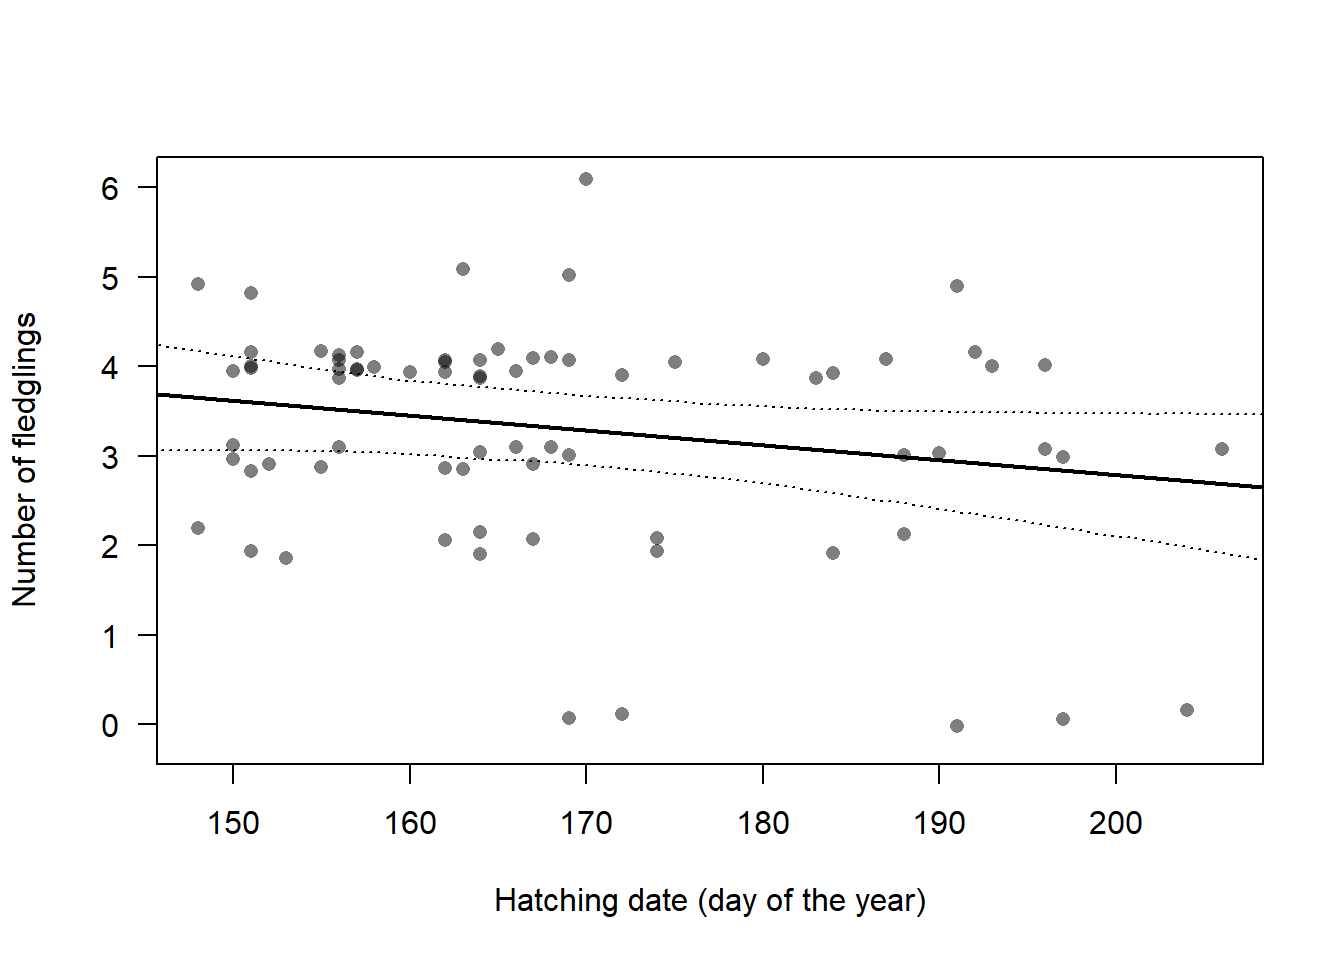
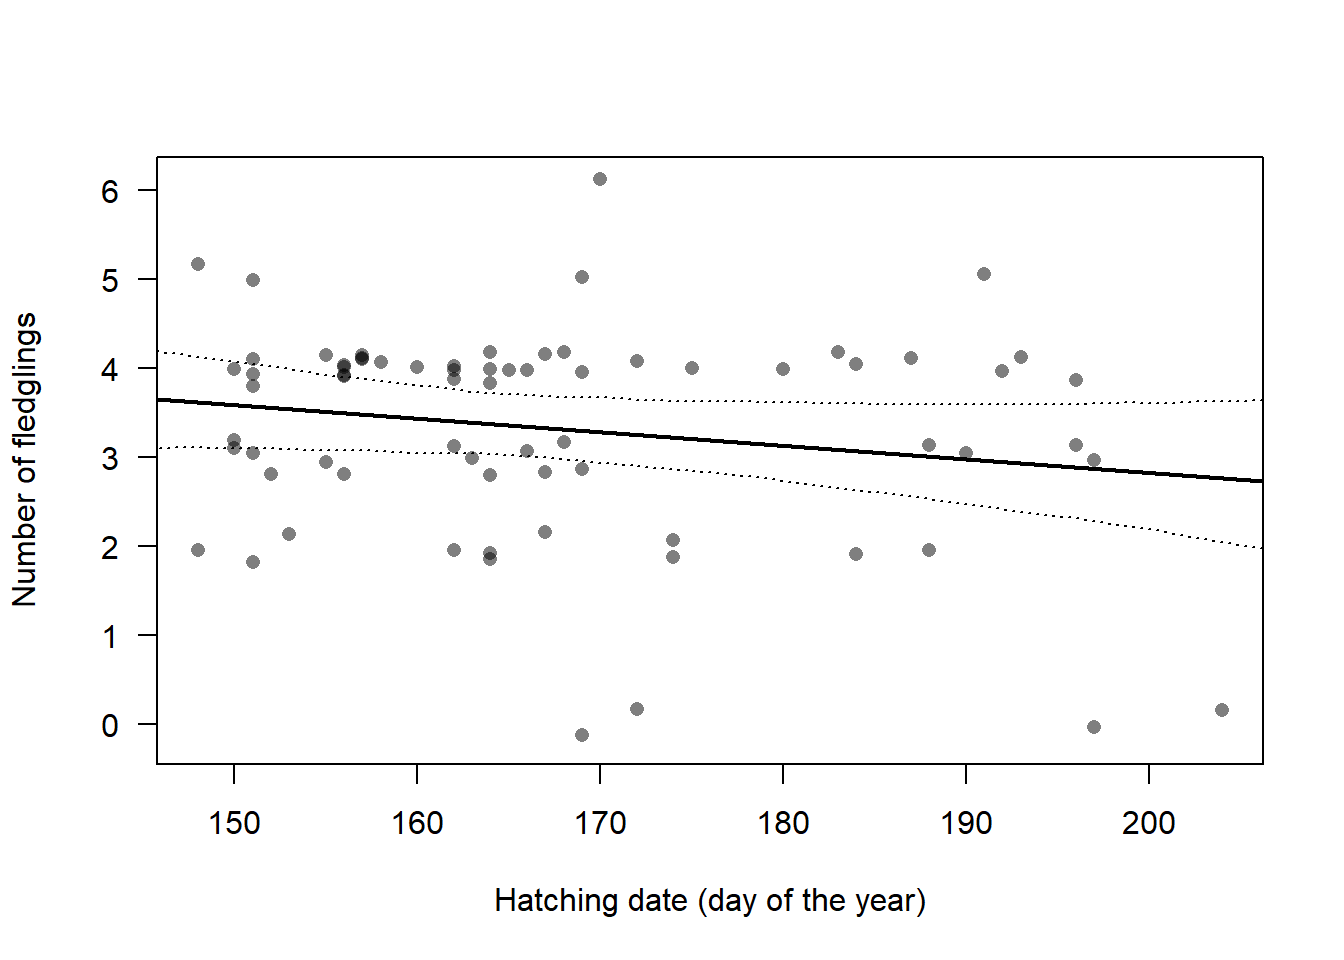
updated broods data frame

diff --git a/docs/data.html b/docs/data.html
@@ -23,7 +23,7 @@
 <meta name="author" content="Fränzi Korner-Nievergelt, Sebastian Dirren, Sabine Hille, Carole Niffenegger, Claire Pernollet" />
 
 
-<meta name="date" content="2023-12-27" />
+<meta name="date" content="2024-01-08" />
 
   <meta name="viewport" content="width=device-width, initial-scale=1" />
   <meta name="apple-mobile-web-app-capable" content="yes" />
@@ -233,7 +233,7 @@ Figure 3.1: Proportion of second broods in different studies (point) with 95% un
 </p>
 </div>
 <p>The resulting average proportion of second broods exhibits a high uncertainty. Its 95% uncertainty interval ranges from 0.2 to 0.97, and the mean is 0.75 (Figure <a href="data.html#fig:metanrbrood">3.1</a>).</p>
-<p>For the population model, we adapted an average proportion of non-breeding females of 0.1 along with an uncertainty interval of 0.03 to 0.21. The large uncertainty interval accounts for the fact that we know little about this demographic parameter.</p>
+<p>For the population model, we adapted an average proportion of non-breeding females of 0.1 along with an uncertainty interval of 0.03 to 0.22. The large uncertainty interval accounts for the fact that we know little about this demographic parameter.</p>
 <p>Using Monte Carlo simulations to propagate the uncertainty, we derived two intercepts for a multinomial model based on the proportion of non-breeders and the proportion of females with second broods among the breeding females. The proportions (of non-breeders, females with one and two broods) defined by the intercepts were used for average temperature values in our model.</p>
 <p>Citizen science data (ornitho.ch) from the last 20 years revealed that the Snowfinch breeding season in Switzerland started already mid-May when June temperatures were high but it started mid-June, when June temperatures were low (Niffenegger in prep.). Additionally, we saw a variation in the ending of the breeding season depending on July temperature. Higher temperatures in July led to an earlier end of the breeding season. Thus, both June and July temperature may affect the total number of broods per year and female. Both variables affected the start and end of the breeding season, respectively, by around one month along the range of their values. A brood needs around one month to be completed. Therefore, we included June and July temperature as predictors in the function use to simulate the number of broods per female and year so that the average number of broods differed by one between the lowest and the highest temperature values.</p>
 <div class="figure"><span style="display:block;" id="fig:funnrbrood"></span>
@@ -246,14 +246,14 @@ Figure 3.2: Proportion of females with 0, 1 or 2 broods. The 95% uncertainty int
 <div id="number-of-fledglings" class="section level3 hasAnchor" number="3.2.2">
 <h3><span class="header-section-number">3.2.2</span> Number of fledglings<a href="data.html#number-of-fledglings" class="anchor-section" aria-label="Anchor link to header"></a></h3>
 <p>There is only one study from the Pyrenees that reported the number of fledglings <span class="citation">(<a href="#ref-grange_biologie_2008">Grangé 2008</a>)</span>. They found an average of 2.4 fledglings per brood.</p>
-<p>Our own data from Switzerland (2015-2023) contains 83 broods for which the number of fledglings is known. The average number of fledglings was almost 4 chicks for broods early in the breeding season and it decreases to around 3 fledglings for late broods (Fig. <a href="data.html#fig:nrfeldglings">3.3</a>).</p>
+<p>Our own data from Switzerland (2015-2023) contains 80 broods for which the number of fledglings is known. The average number of fledglings was almost 4 chicks for broods early in the breeding season and it decreases to around 3 fledglings for late broods (Fig. <a href="data.html#fig:nrfeldglings">3.3</a>).</p>
 <div class="figure"><span style="display:block;" id="fig:nrfeldglings"></span>
 <img src="predictive_model_files/figure-html/nrfeldglings-1.png" alt="Number of fledglings in relation to the date on which the first egg of the brood hatched. The regression line was generated by a linear mixed model with hatching date as predictor and year as random factor. The 95% CI is given as dotted lines. Dots are slightly jittered along the y-axis." width="672" />
 <p class="caption">
 Figure 3.3: Number of fledglings in relation to the date on which the first egg of the brood hatched. The regression line was generated by a linear mixed model with hatching date as predictor and year as random factor. The 95% CI is given as dotted lines. Dots are slightly jittered along the y-axis.
 </p>
 </div>
-<p>To simulate the population trajectory, we drew the number of fledglings for each brood from a normal distribution centred around the mean number of fledglings, determined by the hatching date, with a standard deviation of 1.15. The standard deviation corresponds to the residual standard deviation of the regression shown in Figure <a href="data.html#fig:nrfeldglings">3.3</a>. Currently, we are not considering the among-year variance due to its small magnitude in our data (SD among years: 0.28). However, we may incorporate among-year variance once we gather better data on how environmental variables influence the number of fledglings. Finally, the drawn values of the number of fledglings were rounded to the nearest integer in the simulations.</p>
+<p>To simulate the population trajectory, we drew the number of fledglings for each brood from a normal distribution centred around the mean number of fledglings, determined by the hatching date, with a standard deviation of 1.14. The standard deviation corresponds to the residual standard deviation of the regression shown in Figure <a href="data.html#fig:nrfeldglings">3.3</a>. Currently, we are not considering the among-year variance due to its small magnitude in our data (SD among years: 0.18). However, we may incorporate among-year variance once we gather better data on how environmental variables influence the number of fledglings. Finally, the drawn values of the number of fledglings were rounded to the nearest integer in the simulations.</p>
 </div>
 <div id="survival" class="section level3 hasAnchor" number="3.2.3">
 <h3><span class="header-section-number">3.2.3</span> Survival<a href="data.html#survival" class="anchor-section" aria-label="Anchor link to header"></a></h3>

diff --git a/docs/index.html b/docs/index.html
@@ -23,7 +23,7 @@
 <meta name="author" content="Fränzi Korner-Nievergelt, Sebastian Dirren, Sabine Hille, Carole Niffenegger, Claire Pernollet" />
 
 
-<meta name="date" content="2023-12-27" />
+<meta name="date" content="2024-01-08" />
 
   <meta name="viewport" content="width=device-width, initial-scale=1" />
   <meta name="apple-mobile-web-app-capable" content="yes" />
@@ -207,7 +207,7 @@ div.csl-indent {
 <div id="header">
 <h1 class="title">A predictive population model for a high-elevation specialist bird species</h1>
 <p class="author"><em>Fränzi Korner-Nievergelt, Sebastian Dirren, Sabine Hille, Carole Niffenegger, Claire Pernollet</em></p>
-<p class="date"><em>2023-12-27</em></p>
+<p class="date"><em>2024-01-08</em></p>
 </div>
 <div id="preface" class="section level1 hasAnchor" number="1">
 <h1><span class="header-section-number">1</span> Preface<a href="index.html#preface" class="anchor-section" aria-label="Anchor link to header"></a></h1>

diff --git a/docs/404.html b/docs/404.html
@@ -23,7 +23,7 @@
 <meta name="author" content="Fränzi Korner-Nievergelt, Sebastian Dirren, Sabine Hille, Carole Niffenegger, Claire Pernollet" />
 
 
-<meta name="date" content="2023-12-27" />
+<meta name="date" content="2024-01-08" />
 
   <meta name="viewport" content="width=device-width, initial-scale=1" />
   <meta name="apple-mobile-web-app-capable" content="yes" />

diff --git a/docs/conclusions.html b/docs/conclusions.html
@@ -23,7 +23,7 @@
 <meta name="author" content="Fränzi Korner-Nievergelt, Sebastian Dirren, Sabine Hille, Carole Niffenegger, Claire Pernollet" />
 
 
-<meta name="date" content="2023-12-27" />
+<meta name="date" content="2024-01-08" />
 
   <meta name="viewport" content="width=device-width, initial-scale=1" />
   <meta name="apple-mobile-web-app-capable" content="yes" />

diff --git a/docs/introduction.html b/docs/introduction.html
@@ -23,7 +23,7 @@
 <meta name="author" content="Fränzi Korner-Nievergelt, Sebastian Dirren, Sabine Hille, Carole Niffenegger, Claire Pernollet" />
 
 
-<meta name="date" content="2023-12-27" />
+<meta name="date" content="2024-01-08" />
 
   <meta name="viewport" content="width=device-width, initial-scale=1" />
   <meta name="apple-mobile-web-app-capable" content="yes" />

diff --git a/docs/population-model.html b/docs/population-model.html
@@ -23,7 +23,7 @@
 <meta name="author" content="Fränzi Korner-Nievergelt, Sebastian Dirren, Sabine Hille, Carole Niffenegger, Claire Pernollet" />
 
 
-<meta name="date" content="2023-12-27" />
+<meta name="date" content="2024-01-08" />
 
   <meta name="viewport" content="width=device-width, initial-scale=1" />
   <meta name="apple-mobile-web-app-capable" content="yes" />

diff --git a/docs/references.html b/docs/references.html
@@ -23,7 +23,7 @@
 <meta name="author" content="Fränzi Korner-Nievergelt, Sebastian Dirren, Sabine Hille, Carole Niffenegger, Claire Pernollet" />
 
 
-<meta name="date" content="2023-12-27" />
+<meta name="date" content="2024-01-08" />
 
   <meta name="viewport" content="width=device-width, initial-scale=1" />
   <meta name="apple-mobile-web-app-capable" content="yes" />

diff --git a/docs/predictive_model.md b/docs/predictive_model.md
@@ -76,7 +76,7 @@ We employ a hierarchical meta-analysis to combine the information from the diffe
 The resulting average proportion of second broods exhibits a high uncertainty. Its 95% uncertainty interval ranges from 0.2 to  0.97, and the mean is 0.75 (Figure \@ref(fig:metanrbrood)).
 
 
-For the population model, we adapted an average proportion of non-breeding females of 0.1 along with an uncertainty interval of 0.03 to 0.21. The large uncertainty interval accounts for the fact that we know little about this demographic parameter. 
+For the population model, we adapted an average proportion of non-breeding females of 0.1 along with an uncertainty interval of 0.03 to 0.22. The large uncertainty interval accounts for the fact that we know little about this demographic parameter. 
 
 Using Monte Carlo simulations to propagate the uncertainty, we derived two intercepts for a multinomial model based on the proportion of non-breeders and the proportion of females with second broods among the breeding females. The proportions (of non-breeders, females with one and two broods) defined by the intercepts were used for average temperature values in our model. 
 
@@ -99,14 +99,14 @@ There is only one study from the Pyrenees that reported the number of fledglings
 
 
 
-Our own data from Switzerland (2015-2023) contains 83 broods for which the number of fledglings is known. The average number of fledglings was almost 4 chicks for broods early in the breeding season and it decreases to around 3 fledglings for late broods (Fig. \@ref(fig:nrfeldglings)).
+Our own data from Switzerland (2015-2023) contains 80 broods for which the number of fledglings is known. The average number of fledglings was almost 4 chicks for broods early in the breeding season and it decreases to around 3 fledglings for late broods (Fig. \@ref(fig:nrfeldglings)).
 
 <div class="figure">
 <img src="predictive_model_files/figure-html/nrfeldglings-1.png" alt="Number of fledglings in relation to the date on which the first egg of the brood hatched. The regression line was generated by a linear mixed model with hatching date as predictor and year as random factor. The 95% CI is given as dotted lines. Dots are slightly jittered along the y-axis." width="672" />
 <p class="caption">(\#fig:nrfeldglings)Number of fledglings in relation to the date on which the first egg of the brood hatched. The regression line was generated by a linear mixed model with hatching date as predictor and year as random factor. The 95% CI is given as dotted lines. Dots are slightly jittered along the y-axis.</p>
 </div>
 
-To simulate the population trajectory, we drew the number of fledglings for each brood from a normal distribution centred around the mean number of fledglings, determined by the hatching date, with a standard deviation of 1.15. The standard deviation corresponds to the residual standard deviation of the regression shown in Figure \@ref(fig:nrfeldglings). Currently, we are not considering the among-year variance due to its small magnitude in our data  (SD among years: 0.28). However, we may incorporate among-year variance once we gather better data on how environmental variables influence the number of fledglings. Finally, the drawn values of the number of fledglings were rounded to the nearest integer in the simulations.
+To simulate the population trajectory, we drew the number of fledglings for each brood from a normal distribution centred around the mean number of fledglings, determined by the hatching date, with a standard deviation of 1.14. The standard deviation corresponds to the residual standard deviation of the regression shown in Figure \@ref(fig:nrfeldglings). Currently, we are not considering the among-year variance due to its small magnitude in our data  (SD among years: 0.18). However, we may incorporate among-year variance once we gather better data on how environmental variables influence the number of fledglings. Finally, the drawn values of the number of fledglings were rounded to the nearest integer in the simulations.
 
 
 ### Survival

diff --git a/docs/index.md b/docs/index.md
@@ -1,7 +1,7 @@
 --- 
 title: "A predictive population model for a high-elevation specialist bird species"
 author: "Fränzi Korner-Nievergelt, Sebastian Dirren, Sabine Hille, Carole Niffenegger, Claire Pernollet"
-date: "2023-12-27"
+date: "2024-01-08"
 site: bookdown::bookdown_site
 documentclass: book
 bibliography: [PopModSnowfinch.bib]
